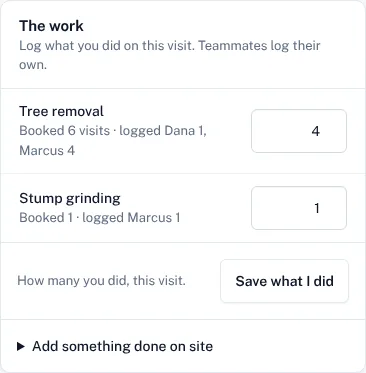
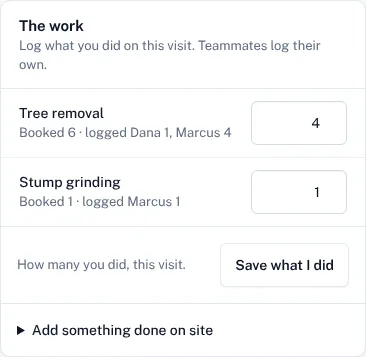
PAY-08: review fixes for the flag removal
Reword the progress credit (before tax, tax taken off too), caption the
progress summary honestly, drop stale wording, say the job takes all the work
on the quote, remove the demo tree unit, wrap an article line, and add a
query-count test for the Work not booked group.

Claude-Session: https://claude.ai/code/session_01STSMyyw2JA3DZHFPa2E6RQ

diff --git a/app/models/action_dashboard.rb b/app/models/action_dashboard.rb
@@ -21,7 +21,7 @@ class ActionDashboard
       group(:new_requests, "New requests", ServiceRequest.where(status: "new").includes(:client).order(:created_at, :id), [ :admin_service_requests_path, {} ]),
       group(:changes_requested, "Changes asked for", quotes.where(status: "changes_requested").order(:updated_at, :id), [ :admin_quotes_path, { filter: "changes_requested" } ]),
       group(:awaiting_answer, "Quotes awaiting an answer", Quote.filtered("awaiting", today:).includes(:client).order(:sent_at, :id), [ :admin_quotes_path, { filter: "awaiting" } ]),
-      (group(:work_not_booked, "Work not booked", quotes.with_work_to_do.includes(:line_items).order(:updated_at, :id), [ :admin_quotes_path, { filter: "approved" } ])),
+      group(:work_not_booked, "Work not booked", quotes.with_work_to_do.includes(:line_items).order(:updated_at, :id), [ :admin_quotes_path, { filter: "approved" } ]),
       group(:to_schedule, "Jobs to schedule", Job.where(status: "unscheduled").includes(:client).order(:created_at, :id), [ :admin_jobs_path, { filter: "unscheduled" } ]),
       group(:to_invoice, "Ready to invoice", Job.ready_to_invoice.includes(:client).order(:completed_at, :id), [ :admin_jobs_path, { filter: "to_invoice" } ]),
       group(:overdue, "Overdue invoices", Invoice.where(status: Invoice::OUTSTANDING).where(due_on: ...today).includes(:client).order(:due_on, :id), [ :admin_invoices_path, { filter: "overdue" } ])

diff --git a/test/integration/admin/dashboard_actions_test.rb b/test/integration/admin/dashboard_actions_test.rb
@@ -158,6 +158,26 @@ class Admin::DashboardActionsTest < ActionDispatch::IntegrationTest
     assert_operator count.call, :<=, few + 6, "more records mustn't mean more queries"
   end
 
+  test "JOB-09: the Work not booked group takes a fixed number of queries however many quotes have work to do" do
+    count = lambda do
+      queries = 0
+      callback = ->(*, payload) { queries += 1 unless payload[:name] == "SCHEMA" || payload[:cached] }
+      ActiveSupport::Notifications.subscribed(callback, "sql.active_record") { get admin_root_path }
+      queries
+    end
+    as_business(@business) { quote(client("Maria Lopez"), status: "approved") }
+    get admin_root_path
+    assert_select "#group-work_not_booked li", 1
+    few = count.call
+    as_business(@business) do
+      sam = client("Sam Okafor")
+      15.times { quote(sam, status: "approved") }
+    end
+    get admin_root_path
+    assert_select "#group-work_not_booked h2", "Work not booked (16)"
+    assert_operator count.call, :<=, few + 2, "more quotes with work to do mustn't mean more queries"
+  end
+
   test "JOB-09: approved work no job has taken shows as Work not booked" do
     as_business(@business) do
       @maria = client("Maria Lopez")

diff --git a/app/models/work_billing.rb b/app/models/work_billing.rb
@@ -7,7 +7,6 @@
 # .final_bills). Every billing path takes JOB-09's lock order (the quote, its jobs by id, the
 # quote's lines by id; a job without a quote alone) and reads what's unbilled again under it; the
 # database refuses a second final bill if anything gets past that.
-#
 module WorkBilling
   # Nothing to bill, or not yet: the message says why.
   class Refused < StandardError; end
@@ -135,7 +134,7 @@ module WorkBilling
     invoice
   end
 
-  # PAY-08: "Create another invoice" before the work is done: a progress invoice of what's left of
+  # PAY-08: "Create progress invoice" before the work is done: a progress invoice of what's left of
   # each line of an open job, or of a quote's lines not yet done, which staff can lower. Its lines
   # aren't final bills; each is credited when its line is billed for real. The quote's discount
   # comes off as staff choose (`discount`). Not for recurring quotes (JOB-10).

diff --git a/db/seeds/development.rb b/db/seeds/development.rb
@@ -255,7 +255,7 @@ Tenancy.with_business(business) do
     quote = Quote.start(client:, created_by: owner)
     quote.title = "Backyard trees and gutters"
     quote.set_discount("amount", "50")
-    quote.sync_line_items([ { "key" => "seed-0", "name" => "Tree removal", "quantity" => "10", "unit" => "visit", "unit_price" => "120", "taxable" => "1" },
+    quote.sync_line_items([ { "key" => "seed-0", "name" => "Tree removal", "quantity" => "10", "unit_price" => "120", "taxable" => "1" },
                             { "key" => "seed-1", "name" => "Gutter cleaning", "quantity" => "1", "unit_price" => "165", "taxable" => "1" } ])
     quote.save!
     quote.mark_sent!(by: owner, channel: "link")

diff --git a/test/models/automation_test.rb b/test/models/automation_test.rb
@@ -135,7 +135,7 @@ class AutomationTest < ActiveSupport::TestCase
     assert_includes AutomationRun.where(subject: job).sole.log.to_s, "Created #{invoice.number} as a draft: it comes to $0.00."
   end
 
-  test "PAY-06: with split jobs, invoice the job skips a job with nothing left to bill, saying so" do
+  test "PAY-06: invoice the job skips a job with nothing left to bill, saying so" do
     rule(trigger: "job_completed", delay: 0, conditions: {}, actions: [ { "type" => "invoice_job" } ], name: "Invoice it")
     job = Job.create!(client: @maria, title: "Fence", line_items_attributes: [ { name: "Fence", quantity: 1, unit_price: 400 } ])
     job.update_columns(status: "completed")

diff --git a/test/models/progress_billing_test.rb b/test/models/progress_billing_test.rb
@@ -1,6 +1,6 @@
 require "test_helper"
 
-# PAY-08: progress billing, credits and discount shares, with split jobs on. The worked examples
+# PAY-08: progress billing, credits and discount shares. The worked examples
 # from #356 are rerun here, in exact cents. Every test ends reconciled (JOB-09).
 class ProgressBillingTest < ActiveSupport::TestCase
   setup do

diff --git a/content/help/articles/progress-invoices.md b/content/help/articles/progress-invoices.md
@@ -45,11 +45,11 @@ A percent discount works the same way, in dollars.
 
 ## When you invoice the finished work
 
-![The quote's page shows what you billed as progress, and what has been credited](progress-summary)
+![The quote's page shows what you billed as progress; once the final invoice is sent, it shows how much was credited](progress-summary)
 
-The final invoice takes off what the progress invoice charged. In your draft the row reads
-**Billed earlier on INV-0006**. Your client sees it as **Credit from INV-0006**. The credit is
-exactly what that progress invoice charged, tax included.
+The final invoice takes off what the progress invoice billed, before tax. In your draft the row
+reads **Billed earlier on INV-0006**. Your client sees it as **Credit from INV-0006**. The tax on
+that work is taken off too, so tax is only charged once.
 
 ![A final invoice draft: the quote discount box beside Apply now, and what was billed earlier taken off the total](final-invoice-credit)
 

diff --git a/content/help/articles/job-without-a-quote.md b/content/help/articles/job-without-a-quote.md
@@ -36,5 +36,5 @@ Then book it: press **Schedule visit** on the job. See
 ## Change what a job covers
 
 While a job is open, press **Edit items** under **Work to do** on the job. Add, change or remove
-items, and press **Save job**. Its invoice, when you create it after completing the job, bills what was done. Something your
-crew added on site needs a price before you can complete the job.
+items, and press **Save job**. Its invoice, when you create it after completing the job, bills
+what was done. Something your crew added on site needs a price before you can complete the job.

diff --git a/content/help/articles/run-your-day.md b/content/help/articles/run-your-day.md
@@ -55,7 +55,8 @@ teammates have already logged.
 
 ![The work: type how many you did on each line, then press Save what I did](my-visit-work)
 
-1. Next to each line, type **How many** you did on this visit, like 4 of 10 trees.
+1. Next to each line, type **How many** you did on this visit, like 4 of the 10 trees you were
+   booked for.
 2. Press **Save what I did**. You can come back and change it.
 
 Your teammates log their own. The office sees everyone's totals, and uses them when the job is
